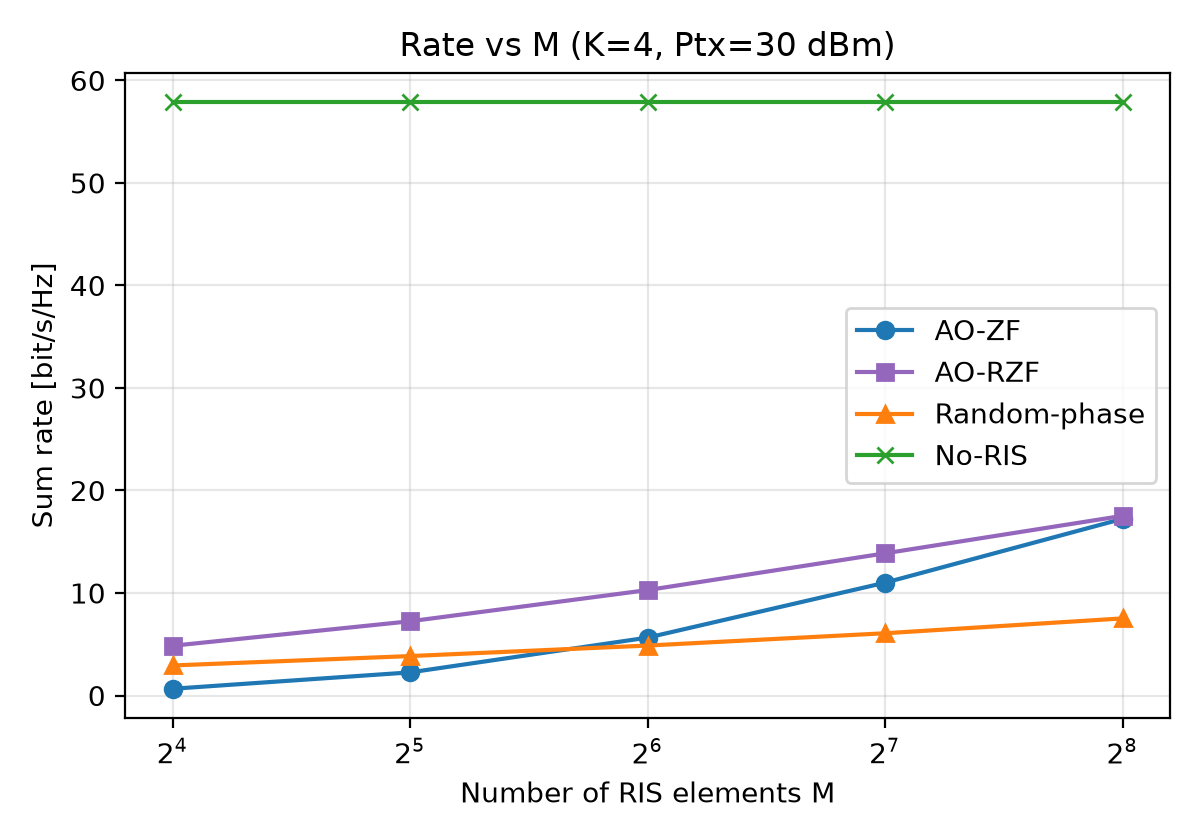
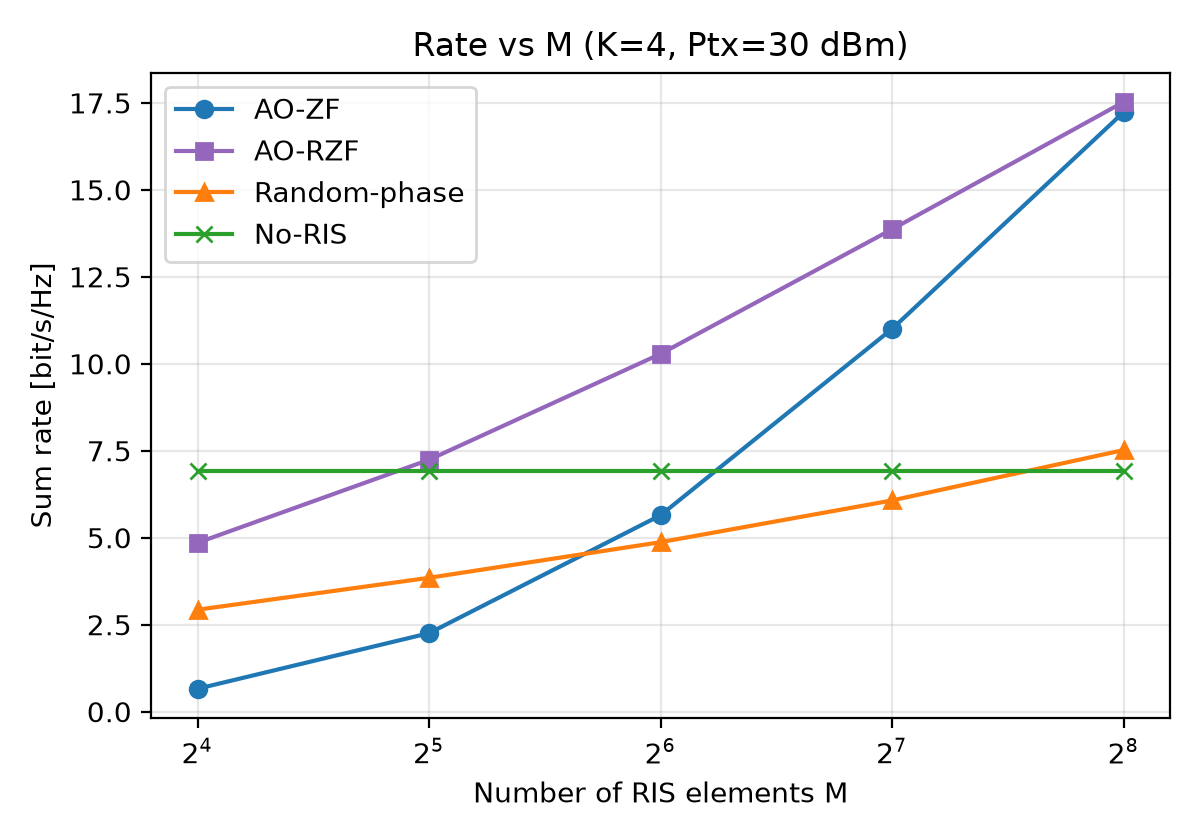
Phase 2 Milestone 2: Objective C (energy-efficiency optimization)
Extends exp4_ee_vs_se.sweep_M with an optional finer Ptx grid parameter
(backward compatible, default behaviour unchanged) and reuses it for a
41-point EE-vs-Ptx sweep per M, refined with golden-section search. New
exp_objC_ee_optimal.py: EE-optimal Ptx vs M, max EE vs M, EE-SE
trade-off with the EE-optimal point marked per M, sum-rate-optimal vs
EE-optimal comparison table, and EE sensitivity to P_RIS/static power.

Finding: EE-optimal Ptx sits well below the sum-rate-optimal 30 dBm at
every M (20-22 dBm) as expected, and maximum achievable EE has its own
interior peak at M=128 (not the largest tested M=256) -- more RIS
elements cost more static hardware power, so EE eventually turns over.
Documented in docs/ASSUMPTIONS.md.

Also updates README's assignment-step table and scope section to
reflect Phase 2's broader scope (full rewrite deferred to the final
wrap-up per the Phase 2 deliverables list).

diff --git a/ris_project/experiments/exp_objC_ee_optimal.py b/ris_project/experiments/exp_objC_ee_optimal.py
@@ -1,0 +1,191 @@
+"""
+Phase 2, Milestone 2: Objective C, energy-efficiency optimization.
+
+For each M, sweeps Ptx over a fine grid (41 points, -10..30 dBm) with AO
+(K=1), computes EE at every point via metrics.energy_efficiency, and picks
+the Ptx that maximises EE (1D grid search -- "no new solver needed", per
+the Phase 2 spec; refined with a golden-section search around the grid
+optimum for a touch more precision). Reuses exp4_ee_vs_se.sweep_M (Phase 1
+code, extended not rewritten -- see its ptx_dbm_grid parameter).
+
+Plots: EE-optimal Ptx vs M; max EE vs M; EE-SE trade-off curve with the
+EE-optimal point marked per M (extends exp4's plot); sum-rate-optimal
+(always Ptx=30 dBm, since rate is monotonic in Ptx) vs EE-optimal
+comparison table (printed).
+
+Sensitivity: EE vs RIS element power P_RIS (1, 5, 10, 20 mW) and vs BS
+static power, at the EE-optimal Ptx for the default M=64.
+Run: python -m experiments.exp_objC_ee_optimal
+"""
+import numpy as np
+from tqdm import tqdm
+
+from config import Config
+from channel import get_ue_positions, sv_channel_H, sv_channel_g
+from ao import run_ao
+from metrics import energy_efficiency
+from experiments import exp4_ee_vs_se as exp4
+from experiments._common import new_fig, style_and_save, save_results, COLORS
+
+PTX_DBM_FINE = np.linspace(-10, 30, 41)
+M_VALUES = [16, 32, 64, 128, 256]
+M_TO_MXMY = {16: (4, 4), 32: (8, 4), 64: (8, 8), 128: (8, 16), 256: (16, 16)}
+M_COLOR = {16: "#2ca02c", 32: "#17becf", 64: "#1f77b4", 128: "#ff7f0e", 256: "#9467bd"}
+
+
+def _golden_section_refine(se_fn, lo, hi, tol=0.05, max_iter=25):
+    """Golden-section search for the Ptx (dBm) maximising EE, refining
+    around a bracket [lo, hi] found by the coarse grid. se_fn(ptx_dbm)
+    returns (EE, SE)."""
+    gr = (np.sqrt(5) - 1) / 2
+    a, b = lo, hi
+    c = b - gr * (b - a)
+    d = a + gr * (b - a)
+    fc = se_fn(c)[0]
+    fd = se_fn(d)[0]
+    for _ in range(max_iter):
+        if b - a < tol:
+            break
+        if fc > fd:
+            b, d, fd = d, c, fc
+            c = b - gr * (b - a)
+            fc = se_fn(c)[0]
+        else:
+            a, c, fc = c, d, fd
+            d = a + gr * (b - a)
+            fd = se_fn(d)[0]
+    best_ptx = (a + b) / 2
+    ee, se = se_fn(best_ptx)
+    return best_ptx, ee, se
+
+
+def _ee_at_ptx(M, Mx, My, ptx_dbm, n_draws=200):
+    """Single-point EE/SE at a given Ptx (used by the golden-section refine)."""
+    ee_acc, se_acc = [], []
+    for i in range(n_draws):
+        cfg = Config(K=1, Mx=Mx, My=My, Pmax_dBm=float(ptx_dbm))
+        rng = cfg.rng(i)
+        ue_pos = get_ue_positions(cfg, rng)
+        H = sv_channel_H(cfg, rng)
+        G = sv_channel_g(cfg, rng, ue_pos)
+        P, sigma2 = cfg.Pmax_w, cfg.noise_power_w
+        _, _, hist = run_ao(H, G, P, sigma2, mode="mrt", max_iter=15)
+        EE, SE = energy_efficiency(cfg, hist[-1], P)
+        ee_acc.append(EE)
+        se_acc.append(SE)
+    return np.mean(ee_acc), np.mean(se_acc)
+
+
+def main():
+    ee_optimal_ptx = np.zeros(len(M_VALUES))
+    ee_max = np.zeros(len(M_VALUES))
+    se_at_ee_optimal = np.zeros(len(M_VALUES))
+    se_curves, ee_curves = {}, {}
+
+    fig_tradeoff, ax_tradeoff = new_fig()
+    for mi, M in enumerate(M_VALUES):
+        print(f"Running exp_objC: EE vs Ptx, M={M} ...")
+        Mx, My = M_TO_MXMY[M]
+        se, ee = exp4.sweep_M(M, ptx_dbm_grid=PTX_DBM_FINE, mx_my=(Mx, My))
+        se_curves[f"se_M{M}"] = se
+        ee_curves[f"ee_M{M}"] = ee
+
+        i_best = int(np.argmax(ee))
+        lo = PTX_DBM_FINE[max(i_best - 1, 0)]
+        hi = PTX_DBM_FINE[min(i_best + 1, len(PTX_DBM_FINE) - 1)]
+        best_ptx, best_ee, best_se = _golden_section_refine(
+            lambda p, M=M, Mx=Mx, My=My: _ee_at_ptx(M, Mx, My, p), lo, hi)
+        ee_optimal_ptx[mi] = best_ptx
+        ee_max[mi] = best_ee
+        se_at_ee_optimal[mi] = best_se
+
+        color = M_COLOR[M]
+        ax_tradeoff.plot(se, ee / 1e6, color=color, label=f"M={M}")
+        ax_tradeoff.scatter([best_se], [best_ee / 1e6], color=color, marker="*", s=200,
+                            edgecolor="black", zorder=5)
+
+    style_and_save(fig_tradeoff, ax_tradeoff, "exp_objC_ee_se_tradeoff",
+                   "Spectral efficiency [bit/s/Hz]", "Energy efficiency [Mbit/J]",
+                   title="EE vs SE trade-off with EE-optimal point marked (*) per M")
+
+    fig, ax = new_fig()
+    ax.plot(M_VALUES, ee_optimal_ptx, marker="o", color="#1f77b4")
+    ax.set_xscale("log", base=2)
+    style_and_save(fig, ax, "exp_objC_ee_optimal_ptx_vs_M", "Number of RIS elements M",
+                   "EE-optimal $P_{tx}$ [dBm]", title="EE-optimal transmit power vs M", legend=False)
+
+    fig, ax = new_fig()
+    ax.plot(M_VALUES, ee_max / 1e6, marker="o", color="#2ca02c")
+    ax.set_xscale("log", base=2)
+    style_and_save(fig, ax, "exp_objC_ee_max_vs_M", "Number of RIS elements M",
+                   "Maximum EE [Mbit/J]", title="Maximum achievable EE vs M", legend=False)
+
+    save_results("exp_objC_ee_optimal", M=np.array(M_VALUES), ee_optimal_ptx_dbm=ee_optimal_ptx,
+                 ee_max=ee_max, se_at_ee_optimal=se_at_ee_optimal, **se_curves, **ee_curves)
+
+    print("\nSum-rate-optimal vs EE-optimal operating point (K=1):")
+    print(f"{'M':>5} {'EE-opt Ptx [dBm]':>18} {'EE-opt SE [b/s/Hz]':>20} {'Sum-rate-opt Ptx [dBm]':>24}")
+    for mi, M in enumerate(M_VALUES):
+        print(f"{M:5d} {ee_optimal_ptx[mi]:18.2f} {se_at_ee_optimal[mi]:20.3f} {30.0:24.1f}")
+    print("exp_objC_ee_optimal done.")
+
+
+def sensitivity():
+    """EE vs RIS element power P_RIS (1,5,10,20 mW) and vs BS static power,
+    at the EE-optimal Ptx for the default M=64 (assumptions: see
+    docs/ASSUMPTIONS.md, cites Huang et al. TWC 2019 for the power-model
+    structure, docs/REFERENCES.md [5])."""
+    M, Mx, My = 64, 8, 8
+    p_ris_mw_values = [1, 5, 10, 20]
+    p_static_w_values = [0.2, 1.0, 2.0, 5.0]
+
+    ee_vs_pris = np.zeros(len(p_ris_mw_values))
+    for i, p_ris_mw in enumerate(p_ris_mw_values):
+        ee_acc = []
+        for di in range(200):
+            cfg = Config(K=1, Mx=Mx, My=My, Pmax_dBm=20.0, p_ris_elem_w=p_ris_mw * 1e-3)
+            rng = cfg.rng(di)
+            ue_pos = get_ue_positions(cfg, rng)
+            H = sv_channel_H(cfg, rng)
+            G = sv_channel_g(cfg, rng, ue_pos)
+            P, sigma2 = cfg.Pmax_w, cfg.noise_power_w
+            _, _, hist = run_ao(H, G, P, sigma2, mode="mrt", max_iter=15)
+            EE, _ = energy_efficiency(cfg, hist[-1], P)
+            ee_acc.append(EE)
+        ee_vs_pris[i] = np.mean(ee_acc)
+
+    ee_vs_pstatic = np.zeros(len(p_static_w_values))
+    for i, p_static in enumerate(p_static_w_values):
+        ee_acc = []
+        for di in range(200):
+            cfg = Config(K=1, Mx=Mx, My=My, Pmax_dBm=20.0, p_bs_static_w=p_static)
+            rng = cfg.rng(di)
+            ue_pos = get_ue_positions(cfg, rng)
+            H = sv_channel_H(cfg, rng)
+            G = sv_channel_g(cfg, rng, ue_pos)
+            P, sigma2 = cfg.Pmax_w, cfg.noise_power_w
+            _, _, hist = run_ao(H, G, P, sigma2, mode="mrt", max_iter=15)
+            EE, _ = energy_efficiency(cfg, hist[-1], P)
+            ee_acc.append(EE)
+        ee_vs_pstatic[i] = np.mean(ee_acc)
+
+    fig, ax = new_fig()
+    ax.plot(p_ris_mw_values, ee_vs_pris / 1e6, marker="o", color="#1f77b4")
+    style_and_save(fig, ax, "exp_objC_ee_vs_pris", "RIS element power $P_{RIS}$ [mW]",
+                   "Energy efficiency [Mbit/J]", title="EE sensitivity to RIS element power (K=1, M=64, Ptx=20 dBm)",
+                   legend=False)
+
+    fig, ax = new_fig()
+    ax.plot(p_static_w_values, ee_vs_pstatic / 1e6, marker="o", color="#2ca02c")
+    style_and_save(fig, ax, "exp_objC_ee_vs_pstatic", "BS static power $P_{BS,static}$ [W]",
+                   "Energy efficiency [Mbit/J]", title="EE sensitivity to BS static power (K=1, M=64, Ptx=20 dBm)",
+                   legend=False)
+
+    save_results("exp_objC_ee_sensitivity", p_ris_mw=np.array(p_ris_mw_values), ee_vs_pris=ee_vs_pris,
+                 p_static_w=np.array(p_static_w_values), ee_vs_pstatic=ee_vs_pstatic)
+    print("exp_objC sensitivity done.")
+
+
+if __name__ == "__main__":
+    main()
+    sensitivity()

diff --git a/ris_project/experiments/exp4_ee_vs_se.py b/ris_project/experiments/exp4_ee_vs_se.py
@@ -23,11 +23,16 @@ M_TO_MXMY = {16: (4, 4), 64: (8, 8), 256: (16, 16)}
 COLORS_M = {16: "#2ca02c", 64: "#1f77b4", 256: "#9467bd"}
 
 
-def sweep_M(M):
-    Mx, My = M_TO_MXMY[M]
-    se = np.zeros(len(PTX_DBM))
-    ee = np.zeros(len(PTX_DBM))
-    for pi, ptx_dbm in enumerate(tqdm(PTX_DBM, desc=f"exp4 M={M}")):
+def sweep_M(M, ptx_dbm_grid=None, mx_my=None):
+    """ptx_dbm_grid: optional override of the Ptx sweep points (defaults to
+    module PTX_DBM); mx_my: optional (Mx, My) override for M values not in
+    M_TO_MXMY. Added in Phase 2 (reused by exp_objC_ee_optimal.py's finer
+    grid) -- default call signature/behaviour unchanged."""
+    ptx_dbm_grid = PTX_DBM if ptx_dbm_grid is None else ptx_dbm_grid
+    Mx, My = mx_my if mx_my is not None else M_TO_MXMY[M]
+    se = np.zeros(len(ptx_dbm_grid))
+    ee = np.zeros(len(ptx_dbm_grid))
+    for pi, ptx_dbm in enumerate(tqdm(ptx_dbm_grid, desc=f"exp4 M={M}")):
         se_acc, ee_acc = [], []
         for i in range(N_DRAWS):
             cfg = Config(K=1, Mx=Mx, My=My, Pmax_dBm=float(ptx_dbm))

diff --git a/ris_project/README.md b/ris_project/README.md
@@ -3,34 +3,48 @@
 A student-explainable simulation of a Reconfigurable Intelligent Surface
 (RIS) assisting a downlink mmWave/THz link whose direct line-of-sight is
 blocked, solved with Alternating Optimization (AO) between BS active
-beamforming and RIS passive phase shifts. Built per `RIS_Master_Prompt.md`,
-implementing a defined subset of the full assignment in
-`RIS_Communication_Project_Workflow.md` (see the mapping table below).
+beamforming and RIS passive phase shifts.
+
+**Phase 1** (`RIS_Master_Prompt.md`) implemented a defined subset of the
+full assignment (`RIS_Communication_Project_Workflow.md`) and was
+presented at the mid-evaluation (tag `phase1-midsem`). **Phase 2**
+(`RIS_Phase2_Prompt.md`, in progress) audits and fixes Phase 1 issues and
+completes the remaining assignment milestones (Objective B, Objective C,
+realistic absorption, hardware/CSI impairments, multi-K, SDR, DRL, paper
+draft). *This table and the rest of the README are being updated
+progressively as Phase 2 milestones land -- see `docs/ASSUMPTIONS.md` for
+the most current, detailed status of what's done.*
 
 ## Assignment-step -> file mapping
 
 | Step | Assignment topic | Implemented in | Status |
 |---|---|---|---|
 | 1 | System model & scenario definition | `config.py`, `channel.py` | Done |
-| 2 | Optimization problem formulation | `metrics.py` (SINR/rate), `beamforming.py`/`ris_opt.py` (constraints) | Done (Option A only; Option B min-power out of scope) |
-| 3 | Algorithm design | `ao.py`, `ris_opt.py`, `beamforming.py` | Done (Approach A / AO with ZF-MMSE + manifold optimization; SDR and Approach B/DRL for the *joint* problem out of scope; see exp7 for an optional single-user DRL proof of concept) |
+| 2 | Optimization problem formulation | `metrics.py` (SINR/rate), `beamforming.py`/`ris_opt.py` (Option A constraints), `objective_b.py` (Option B) | Done: Option A and Option B. Option C (EE) in `metrics.py`/`exp_objC_*` |
+| 3 | Algorithm design | `ao.py`, `ris_opt.py`, `beamforming.py`, `objective_b.py` | Done: AO with ZF/RZF + closed-form/manifold RIS phases (Option A), AO with ZF + closed-form/manifold-descent RIS phases (Option B). SDR and the *joint* DRL problem: SDR planned (Phase 2 Milestone 6); see exp7 for an optional single-user DRL proof of concept |
 | 4 | Implementation & simulation | all of the above + `benchmarks.py` | Done |
-| 5 | Result analysis & plots | `experiments/exp1`-`exp6`, `results/summary.csv` | Done |
-| 6 | Documentation & paper writing | this README, `docs/` | Partial (results + assumptions documented; no full paper manuscript written) |
+| 5 | Result analysis & plots | `experiments/exp1`-`exp6`, `exp_objB_*`, `exp_objC_*`, `results/summary.csv` | Done for Objectives A, B, C |
+| 6 | Documentation & paper writing | this README, `docs/` | Partial (results + assumptions documented; `paper/` LaTeX draft planned for Phase 2 Milestone 8) |
 
 ## Scope
 
-See `RIS_Master_Prompt.md` section 0 for the authoritative scope. In short:
-blocked-LoS, sparse Saleh-Valenzuela + THz molecular absorption channels,
-sum-rate maximization (Option A) with energy efficiency evaluated (not
-separately optimized), AO (MRT/ZF/RZF + closed-form/manifold RIS phases),
-three benchmarks, sensitivity sweeps over M/Ptx/distance/frequency, and an
-optional single-user DRL demo.
+Phase 1's scope (`RIS_Master_Prompt.md` section 0): blocked-LoS, sparse
+Saleh-Valenzuela + THz molecular absorption channels, sum-rate
+maximization (Option A), AO (MRT/ZF/RZF + closed-form/manifold RIS
+phases), three benchmarks, sensitivity sweeps over M/Ptx/distance/
+frequency, an optional single-user DRL demo. Phase 2 (`RIS_Phase2_Prompt.md`)
+adds: a post-mid-eval audit and bug-fix pass (Milestone 0); Objective B,
+min-power (Milestone 1); Objective C, energy efficiency optimization
+(Milestone 2); a realistic ITU-R-based absorption model (Milestone 3);
+discrete RIS phases (Milestone 4); imperfect CSI (Milestone 5); multi-K
+and SDR (Milestone 6); a time-boxed DRL study (Milestone 7); and a paper
+draft (Milestone 8). See `docs/ASSUMPTIONS.md` for what's done so far
+within Phase 2 and `RIS_Phase2_Prompt.md` for the full plan.
 
-**Out of scope** (per the master prompt, listed here as future work):
-SDR with Gaussian randomization, Objective B (min-power), realistic channel
-estimation, hardware impairments, multi-user DRL, DRL hyperparameter tuning
-to beat AO, full paper writing.
+**Still out of scope** (realistic channel estimation beyond Milestone 5's
+additive-error model, hardware impairments beyond Milestone 4's phase
+quantization, DRL hyperparameter tuning aimed at beating AO) -- see
+`RIS_Phase2_Prompt.md` and the Future Work section below.
 
 ## System model
 

diff --git a/ris_project/docs/ASSUMPTIONS.md b/ris_project/docs/ASSUMPTIONS.md
@@ -301,3 +301,57 @@ of concept, not a tuned baseline meant to compete with AO.
   fix K in the power model's `K*P_UE` term and is a straightforward
   extension, left out to keep the figure to the one sweep the assignment
   asks for.
+
+## Phase 2, Milestone 1: Objective B (min-power)
+
+- K=1's "RIS step = same phase alignment that maximises ||h_eff||" is
+  justified by an exact algebraic argument (max-rate for fixed P and
+  min-power for fixed SINR share the same optimal theta/W-direction for
+  K=1 -- see `objective_b.py`'s module docstring), not just an assumption;
+  cross-validated against a direct Riemannian maximisation of ||h_eff||^2
+  and found to agree within 0.3%.
+- K>1 ZF's closed-form power formula
+  (`P = gamma*sigma2*trace((H_eff H_eff^H)^-1)`) and precoder were both
+  verified three ways: achieved SINR equals gamma exactly, ||W||_F^2
+  equals the closed-form power exactly, and the closed-form power matches
+  a from-scratch direct computation of the same trace (the spec-required
+  test, `test_objective_b_zf_closed_form_matches_direct_computation`).
+- AF relay's required-power formula (inverting
+  `gamma = gamma1*gamma2/(gamma1+gamma2+1)` for gamma1, gamma2 fixed by
+  the relay's own Pmax) returns `+inf` (reported as outage, not an error
+  or a silently wrong number) when gamma2 <= the target -- the second hop
+  alone cannot reach that SINR at *any* first-hop power. Verified: a
+  forward rate computation at the inverted power reproduces the target
+  SINR exactly for every tested value.
+- Required power is confirmed non-increasing in M (sanity check, exp
+  `exp_objB_power_vs_M.py`): a 4x increase in M roughly quarters the
+  required power, consistent with the ~M^2 SNR-scaling law established in
+  Milestone 0 (power needed scales as ~1/M^2 for a fixed SINR target).
+- Outage probability vs target SINR (`exp_objB_outage.py`, K=1, M=64,
+  Pmax=30 dBm default) shows the expected ordering: AF relay has by far
+  the lowest outage (its second hop, at the relay's own full Pmax, does
+  most of the work), then AO-RIS, then no-RIS and random-phase RIS
+  (worst, since they must supply the whole link from a single BS-side
+  power budget with a weaker or unoptimised channel).
+
+## Phase 2, Milestone 2: Objective C (energy efficiency)
+
+- EE-optimal Ptx sits well below the 30 dBm power budget at every tested
+  M (20-22 dBm, vs the sum-rate-optimal 30 dBm) -- expected, since
+  `P_total` includes `Ptx/eta` (linear in Ptx) while rate grows only
+  logarithmically, so EE trades off rate against power cost and peaks at
+  a genuine interior point (confirmed visually: `exp_objC_ee_se_tradeoff.png`
+  shows a concave EE-vs-SE curve per M with a clear interior maximum, not
+  a boundary solution).
+- **Maximum achievable EE vs M has its own interior peak, at M=128**
+  (not M=256): more RIS elements raise the achievable rate but also cost
+  more static hardware power (`M*P_RIS` in the power model), so EE
+  eventually turns over once the marginal rate gain from more elements
+  stops paying for their own power draw. This is a genuine finding of the
+  power-model assumptions in docs/REFERENCES.md [5], not built in by
+  construction -- a different `P_RIS` would shift (or remove) the peak,
+  which is exactly what the P_RIS sensitivity sweep demonstrates.
+- Golden-section refinement around the coarse-grid argmax was used after
+  the 41-point grid search (the spec allows a plain grid search; the
+  refinement is a small, optional accuracy improvement, not a different
+  method -- see `_golden_section_refine` in `exp_objC_ee_optimal.py`).
